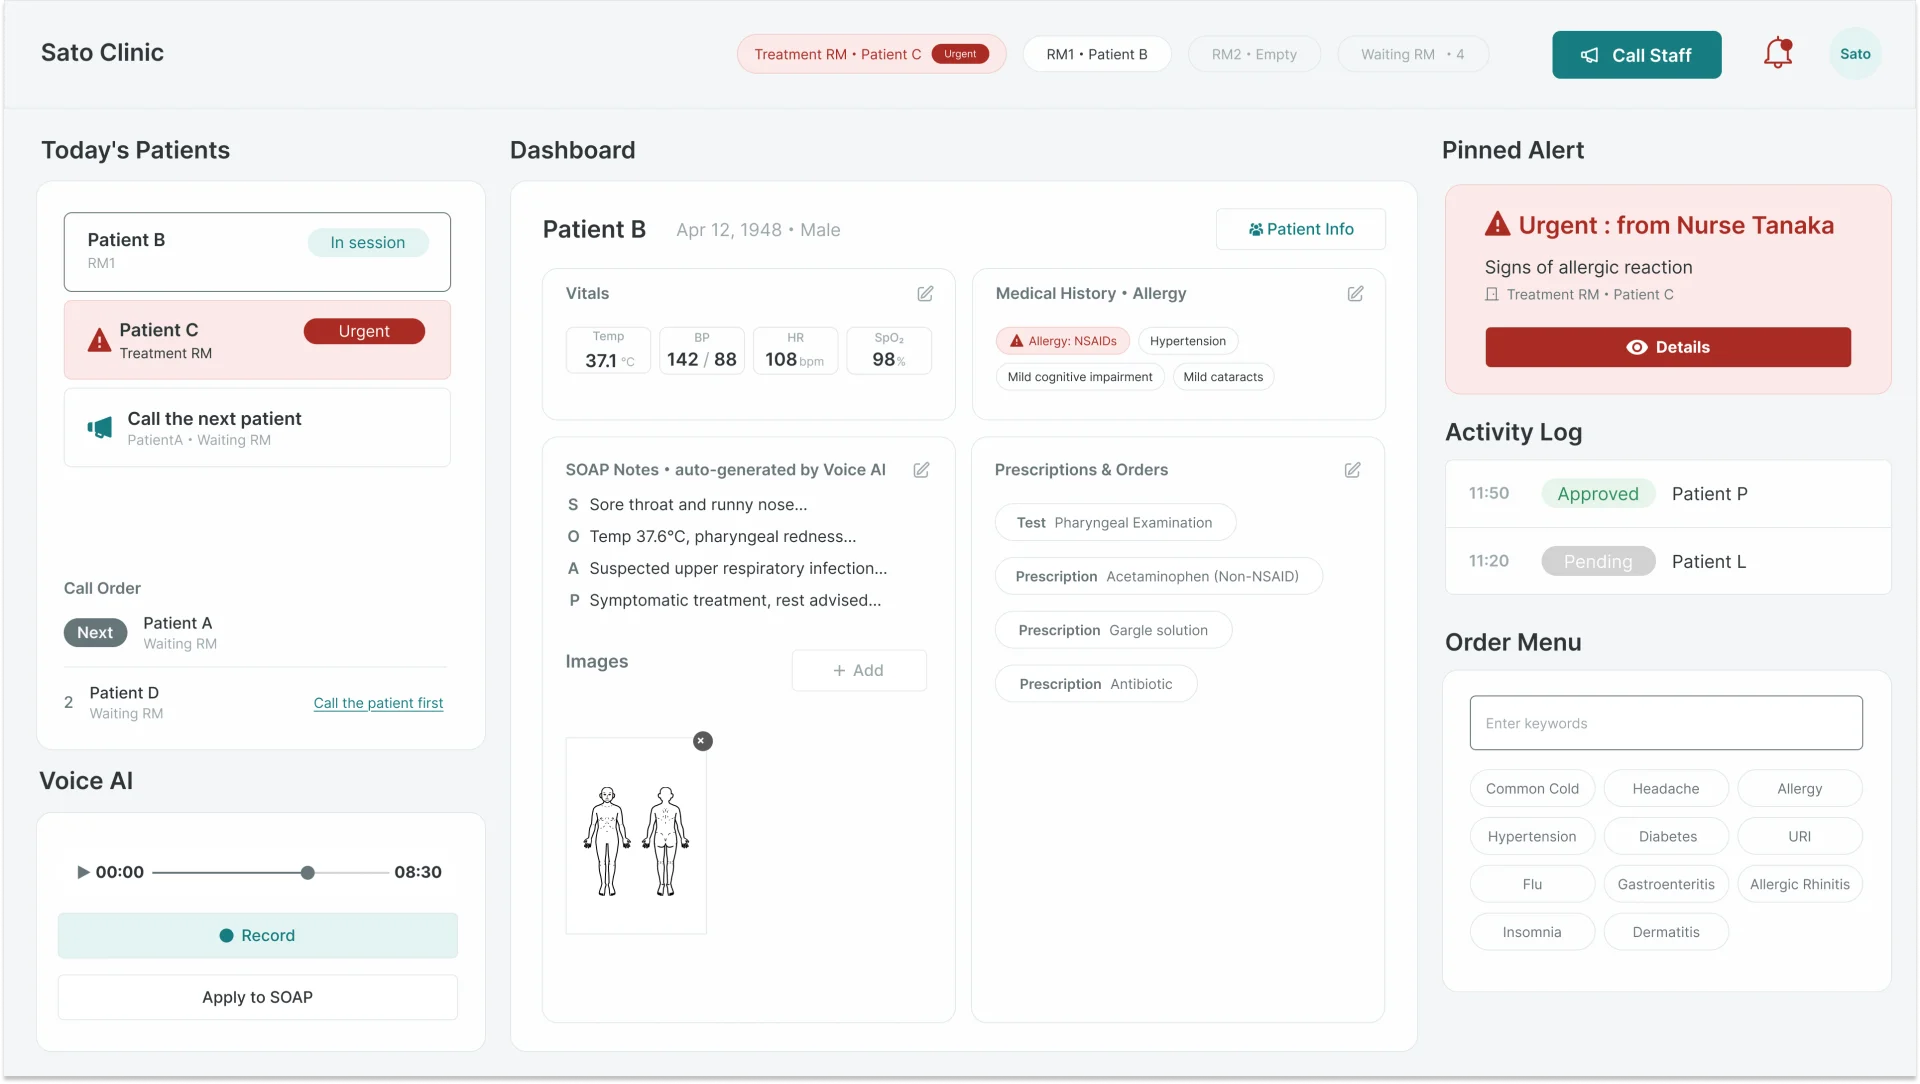
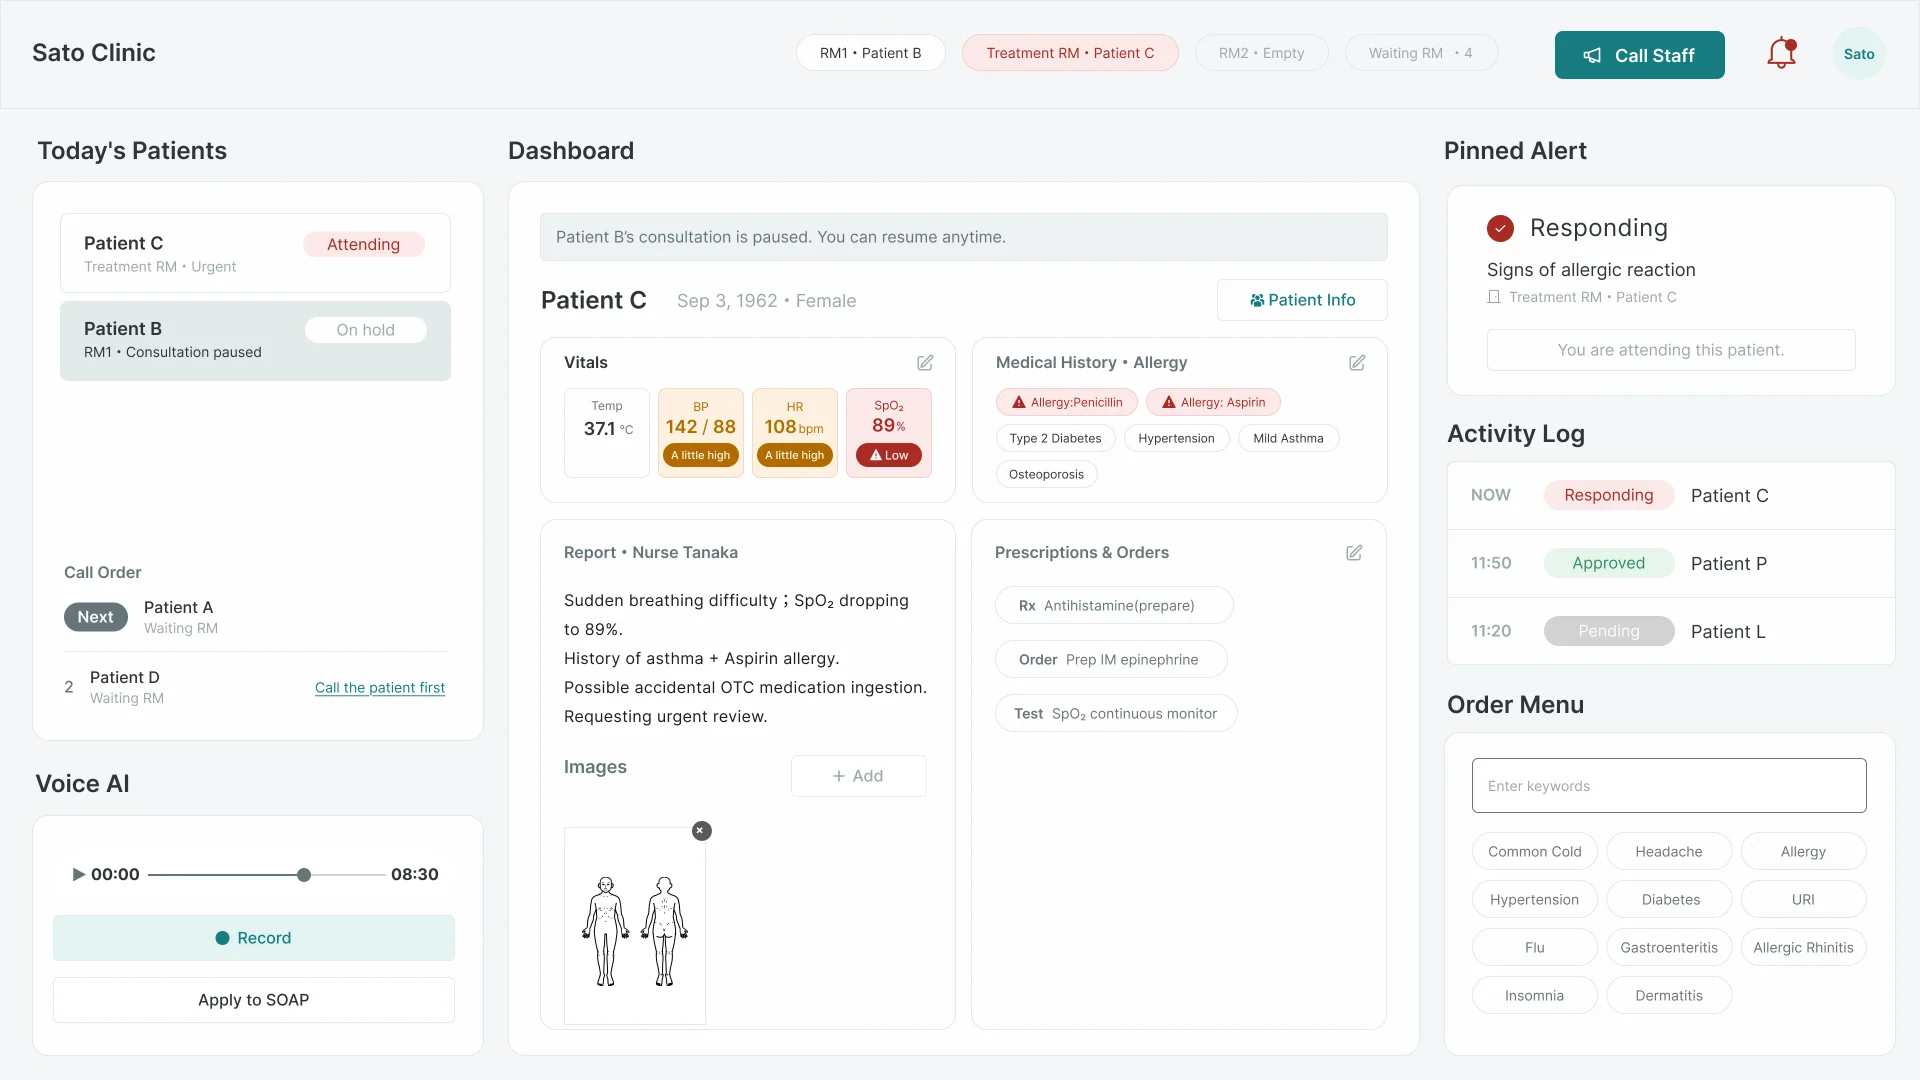
Replace dashboard images with margin-free 16:9 exports

diff --git a/clinic-case-study.html b/clinic-case-study.html
@@ -100,11 +100,10 @@
   .split3 .scrollhint span{display:block;font-size:22px;line-height:1;animation:hintfloat 2s ease-in-out infinite}
   .split3 .scrollhint.off{opacity:0}
   @keyframes hintfloat{0%,100%{transform:translateY(0)}50%{transform:translateY(4px)}}
-  /* Hero：PC大＋SP縦の2カラム（3.2:1で両者の高さが揃う） */
-  .heroduo{display:grid;grid-template-columns:3.15fr 1fr;gap:14px;align-items:start}
+  /* Hero：PC大＋SP縦の2カラム（PC16:9とSP375:667の高さが揃う比率） */
+  .heroduo{display:grid;grid-template-columns:3.16fr 1fr;gap:14px;align-items:start}
   .heroduo .dpane{border:1px solid var(--line);border-radius:10px;overflow:hidden;background:#fff}
   .heroduo .dpane img{width:100%;display:block}
-  .heroduo .dpane:first-child img{transform:scale(1.01);object-position:center}
   @media(max-width:720px){
     .heroduo{grid-template-columns:1fr}
     .heroduo .spane{width:55%;margin:0 auto}